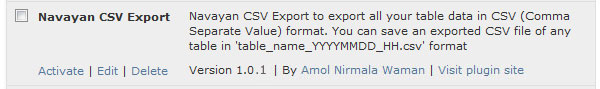
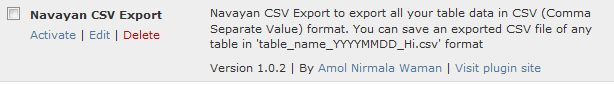
Added compatibility for Wordpress v3.1.3
git-svn-id: https://plugins.svn.wordpress.org/navayan-csv-export@391563 b8457f37-d9ea-0310-8a92-e5e31aec5664

diff --git a/trunk/ny-export.php b/trunk/ny-export.php
@@ -3,7 +3,7 @@
 Plugin Name: Navayan CSV Export
 Plugin URI: http://blog.navayan.com/
 Description: Navayan CSV Export to export all your table data in CSV (Comma Separate Value) format. You can save an exported CSV file of any table in  'table_name_YYYYMMDD_Hi.csv' format
-Version: 1.0.1
+Version: 1.0.2
 Author: Amol Nirmala Waman
 Author URI: http://www.navayan.com/
 */
@@ -12,7 +12,7 @@ Author URI: http://www.navayan.com/
 if(!function_exists('ny_csv_menu')){
     function ny_csv_menu() {
         if ( function_exists('add_submenu_page') ){
-            add_submenu_page('tools.php', __('Navayan CSV Export'), __("Navayan CSV Export"), 8, 'export', 'fn_ny_csv_ui');
+            add_management_page( __('Navayan CSV Export','navayan-csv-export'), __('Navayan CSV Export','navayan-csv-export'), 'manage_options', '', 'fn_ny_csv_ui');
         }
     }
 }

diff --git a/trunk/ny-csv-generate.php b/trunk/ny-csv-generate.php
@@ -41,7 +41,7 @@ function fn_ny_csv_gen($table_name){
 		foreach($result as $row){
 			for($s = 0; $s < $fields_num; $s++){
 				if($s == 0) $fields .= "\n";	  
-				$fields .= escapeCSV($row -> $each_field[$s]);	  
+				$fields .= escapeCSV($row -> $each_field[$s]);
 			}			
 		}
 
